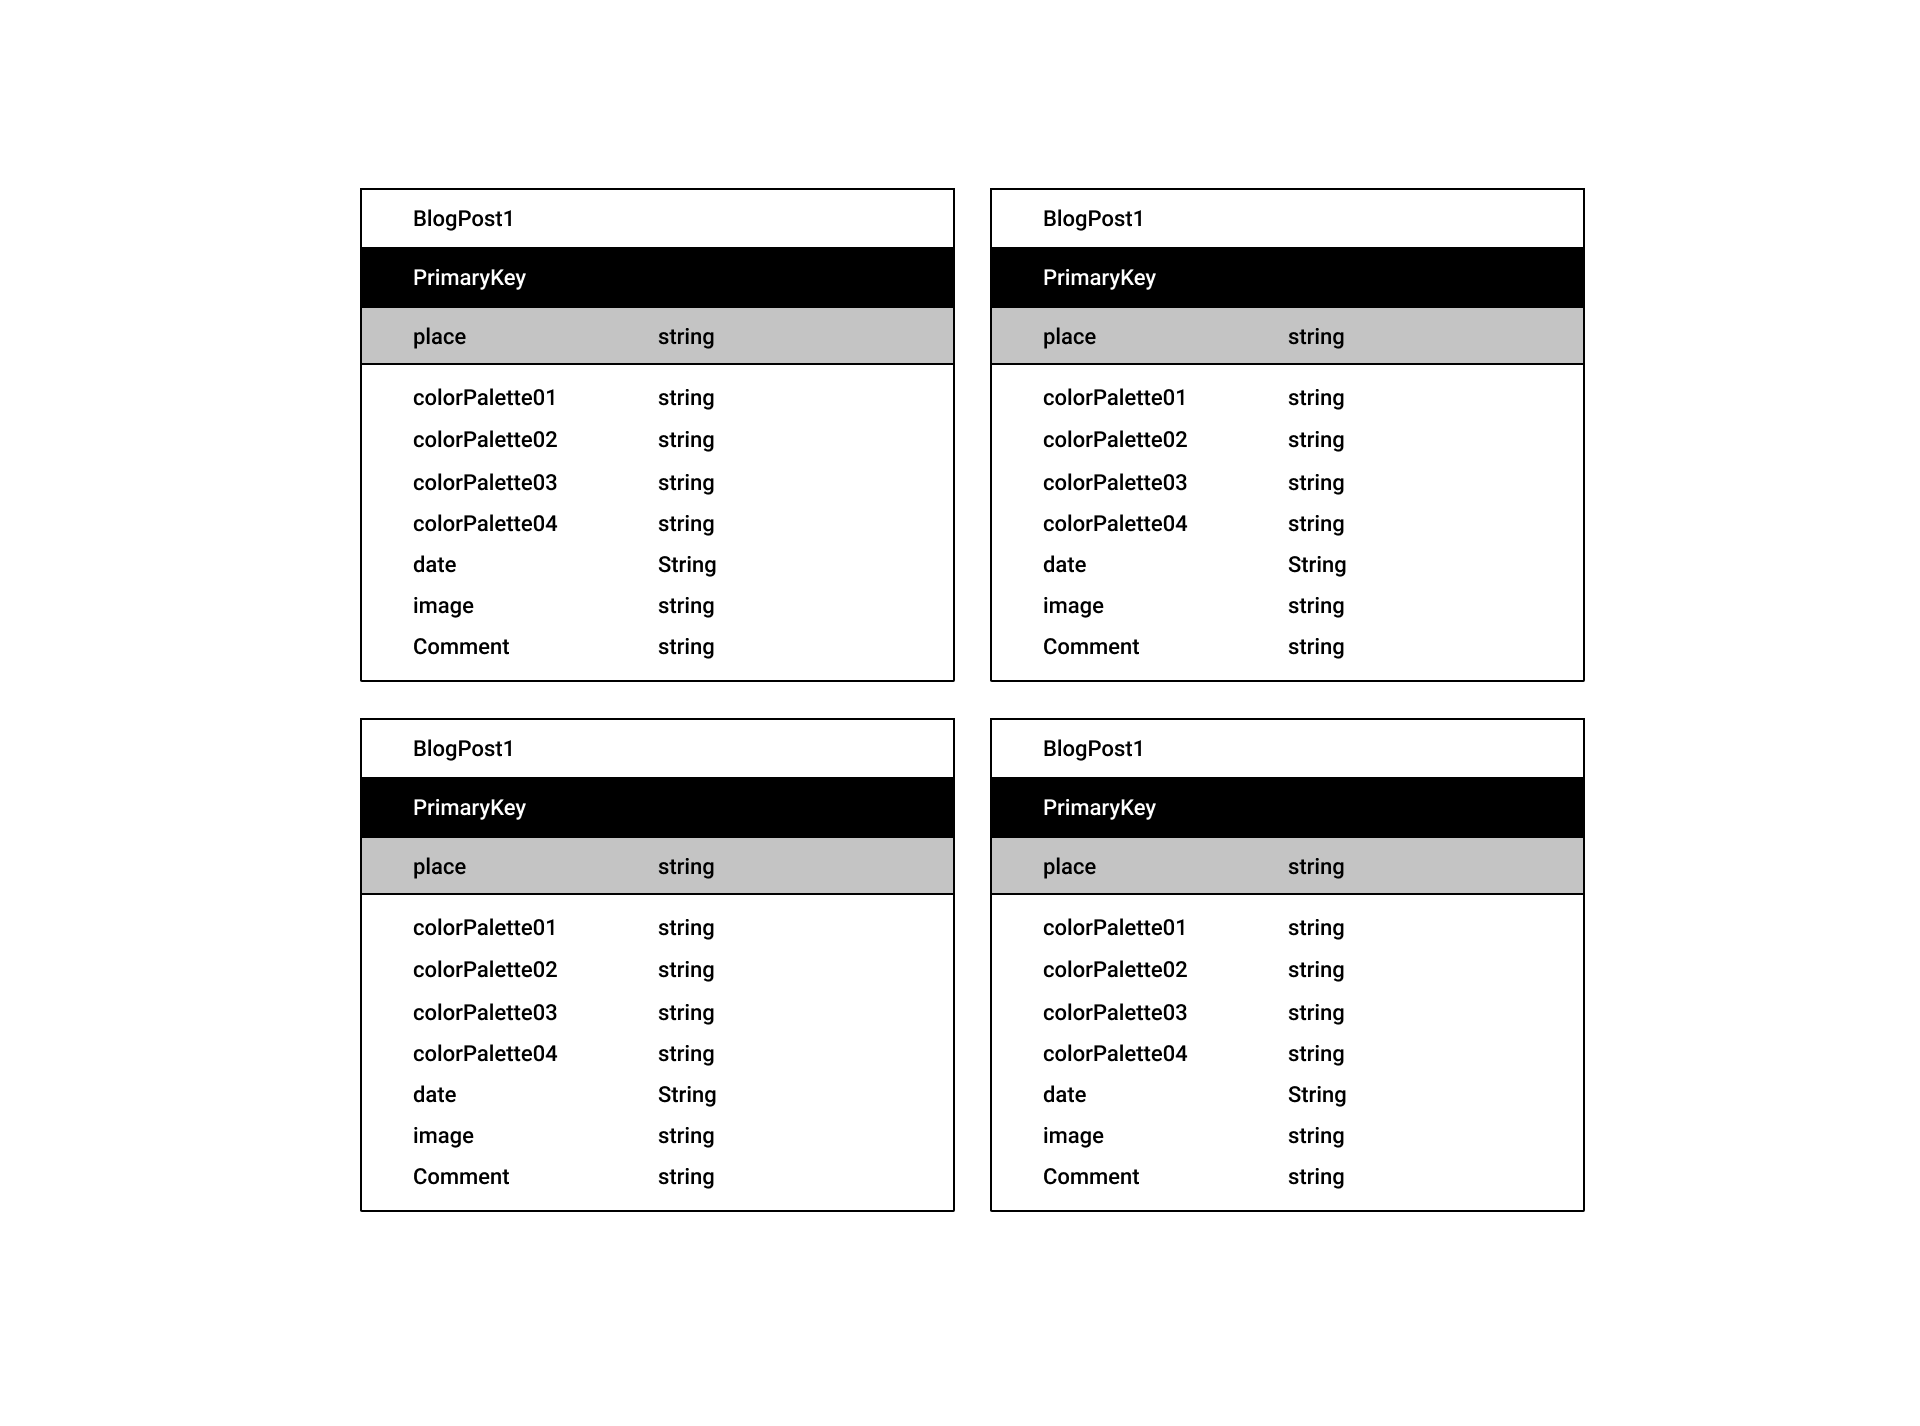
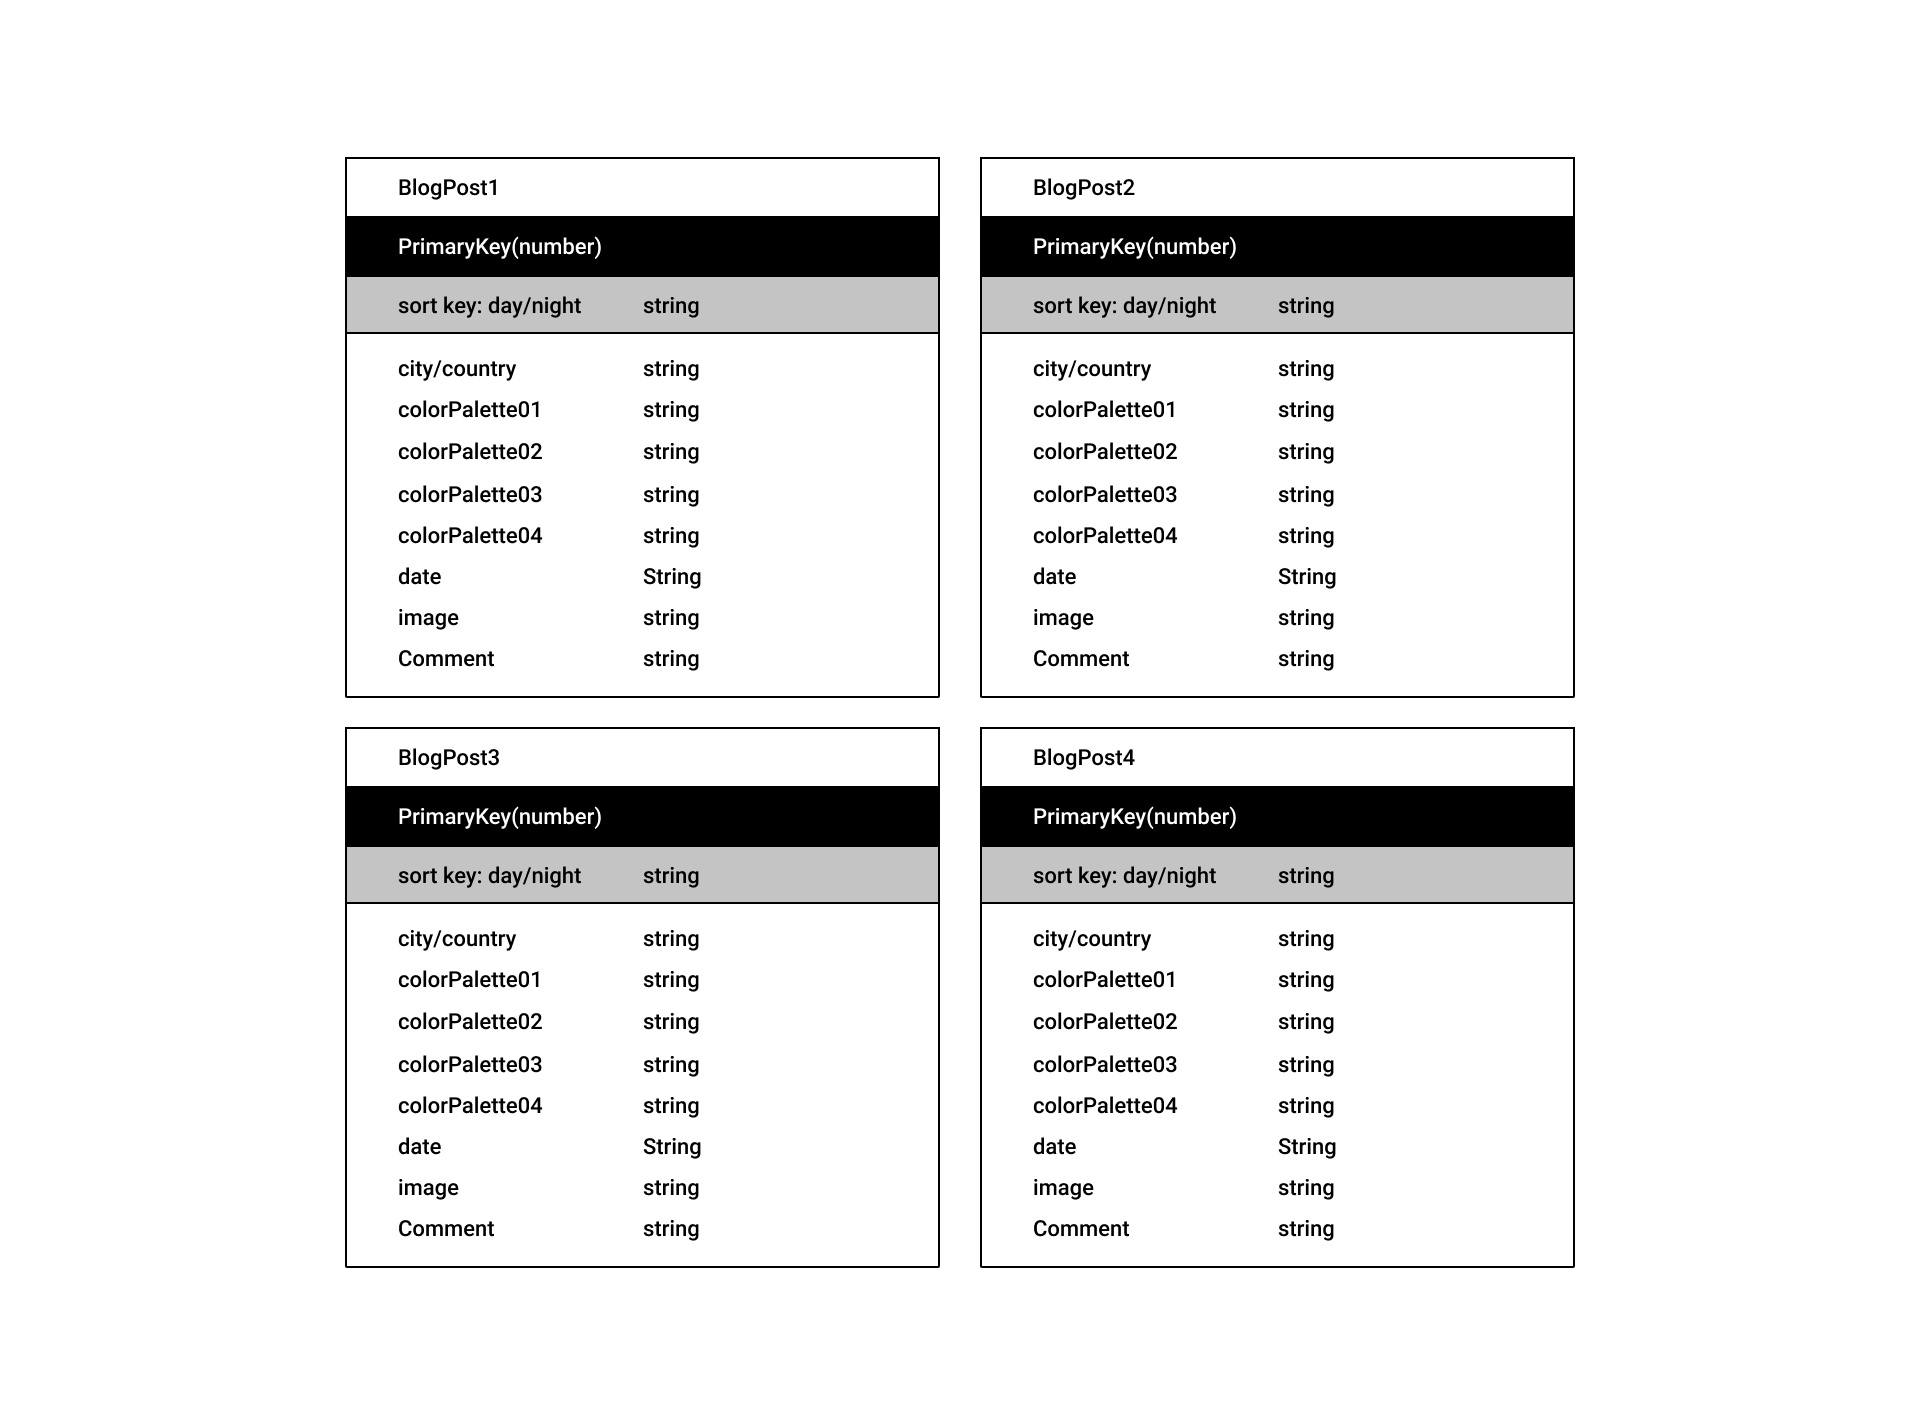
sketches

Changed region(s): [[0.1562, 0.1234, 0.8438, 0.864]]

diff --git a/assignment_07/wa07_insert_data.js b/assignment_07/wa07_insert_data.js
@@ -1,0 +1,29 @@
+const { Client } = require('pg');
+var async = require('async');  
+const dotenv = require('dotenv');
+dotenv.config();  
+
+// AWS RDS POSTGRESQL INSTANCE
+var db_credentials = new Object();
+db_credentials.user = process.env.user;
+db_credentials.host = process.env.host;
+db_credentials.database = process.env.database;
+db_credentials.password = process.env.password;
+db_credentials.port = process.env.port;
+
+
+
+
+// var addressesForDb = [ {"address":"7 East 10th Street, New York, NY","latLong":{"lat":"40.6483895400048","lng":"-73.9705803172279"}},{"address":"155 East 22nd Street, New York, NY","latLong":{"lat":"40.7385487033475","lng":"-73.9843107652274"}},{"address":"61 Fourth Avenue, New York, NY","latLong":{"lat":"40.6823550359262","lng":"-73.9795868290333"}} ];
+var addressesForDb = require('../assignment_03/data/first.json');
+
+async.eachSeries(addressesForDb, function(value, callback) {
+    const client = new Client(db_credentials);
+    client.connect();
+    var thisQuery = "INSERT INTO public.meetings (id, meeting_titles, location_id, meeting_type_id, special_interest_id, day_id, time_id) VALUES (2, 'A DESIGN FOR LIVING', 1, null, null, null, null);";
+    client.query(thisQuery, (err, res) => {
+        console.log(err, res);
+        client.end();
+    });
+    setTimeout(callback, 1000); 
+}); 

diff --git a/assignment_05/README.md b/assignment_05/README.md
@@ -16,9 +16,13 @@ I'm using noSQL database to store the data of my sky photos that I took, which i
 1. Create BlogEntry class to store the value
 ```js
 class BlogEntry {
-  constructor(primaryKey, colorPalette01, colorPalette02, colorPalette03, colorPalette04, place, date, image, comment) {
+  constructor(primaryKey, day/night, city/country, colorPalette01, colorPalette02, colorPalette03, colorPalette04, date, image, comment) {
     this.pk = {};
     this.pk.N = primaryKey.toString(); //number->string
+    this.day/night = {};
+    this.day/night.S = day/night;
+     this.city/country = {};
+    this.city/country.S = city/country;
     this.colorPalette01 = {};
     this.colorPalette01.S = colorPalette01;
     this.colorPalette02 = {};
@@ -27,8 +31,6 @@ class BlogEntry {
     this.colorPalette03.S = colorPalette03;
     this.colorPalette04 = {};
     this.colorPalette04.S = colorPalette04;
-    this.place = {};
-    this.place.S = place;
     this.date = {}; 
     this.date.S = new Date(date).toDateString();// convert to javascript date format
     this.image= {};
@@ -45,11 +47,10 @@ class BlogEntry {
 2. Connected Cloud 9 with DynamoDB
 3. Push the entries
 ```js
-blogEntries.push(new BlogEntry(0, '#808ca4', '#9d8488', '#d4907d', '#fea67a', 'Tokyo,Japan', 'March 13, 2021', 'https://drive.google.com/drive/u/0/folders/1KRGQ93NGK9PMdQ_bhDOWO-eoeZLjdSIc', 'on the way to home after working!'))
-blogEntries.push(new BlogEntry(1, '#60748f', '#8995a5', '#abb9c6', '#c5d0d4', 'Tokyo,Japan', 'April 08, 2021', 'https://drive.google.com/drive/u/0/folders/1KRGQ93NGK9PMdQ_bhDOWO-eoeZLjdSIc', 'Heading back to Korea after family trip'))
-blogEntries.push(new BlogEntry(2, '#fbb091', '#afcdd7', '#6f8698', '#dcd1b5', 'Tokyo,Japan', 'May 05, 2021', 'https://drive.google.com/drive/u/0/folders/1KRGQ93NGK9PMdQ_bhDOWO-eoeZLjdSIc'))
-blogEntries.push(new BlogEntry(3, '#db7a57', '#f9ad59', '#b9b9b7', '#fcb479', 'Tokyo,Japan', 'May 10, 2021', 'https://drive.google.com/drive/u/0/folders/1KRGQ93NGK9PMdQ_bhDOWO-eoeZLjdSIc'))
-
+blogEntries.push(new BlogEntry(0, day/night, 'Tokyo,Japan', '#808ca4', '#9d8488', '#d4907d', '#fea67a', 'March 13, 2021', 'https://drive.google.com/drive/u/0/folders/1KRGQ93NGK9PMdQ_bhDOWO-eoeZLjdSIc', 'on the way to home after working!'))
+blogEntries.push(new BlogEntry(1, day/night, 'Tokyo,Japan', '#808ca4', '#9d8488', '#d4907d', '#fea67a', 'March 13, 2021', 'https://drive.google.com/drive/u/0/folders/1KRGQ93NGK9PMdQ_bhDOWO-eoeZLjdSIc', 'on the way to home after working!'))
+blogEntries.push(new BlogEntry(2, day/night, 'Tokyo,Japan', '#808ca4', '#9d8488', '#d4907d', '#fea67a', 'March 13, 2021', 'https://drive.google.com/drive/u/0/folders/1KRGQ93NGK9PMdQ_bhDOWO-eoeZLjdSIc', 'on the way to home after working!'))
+blogEntries.push(new BlogEntry(3, day/night, 'Tokyo,Japan', '#808ca4', '#9d8488', '#d4907d', '#fea67a', 'March 13, 2021', 'https://drive.google.com/drive/u/0/folders/1KRGQ93NGK9PMdQ_bhDOWO-eoeZLjdSIc', 'on the way to home after working!'))
 
 console.log(blogEntries);
 
